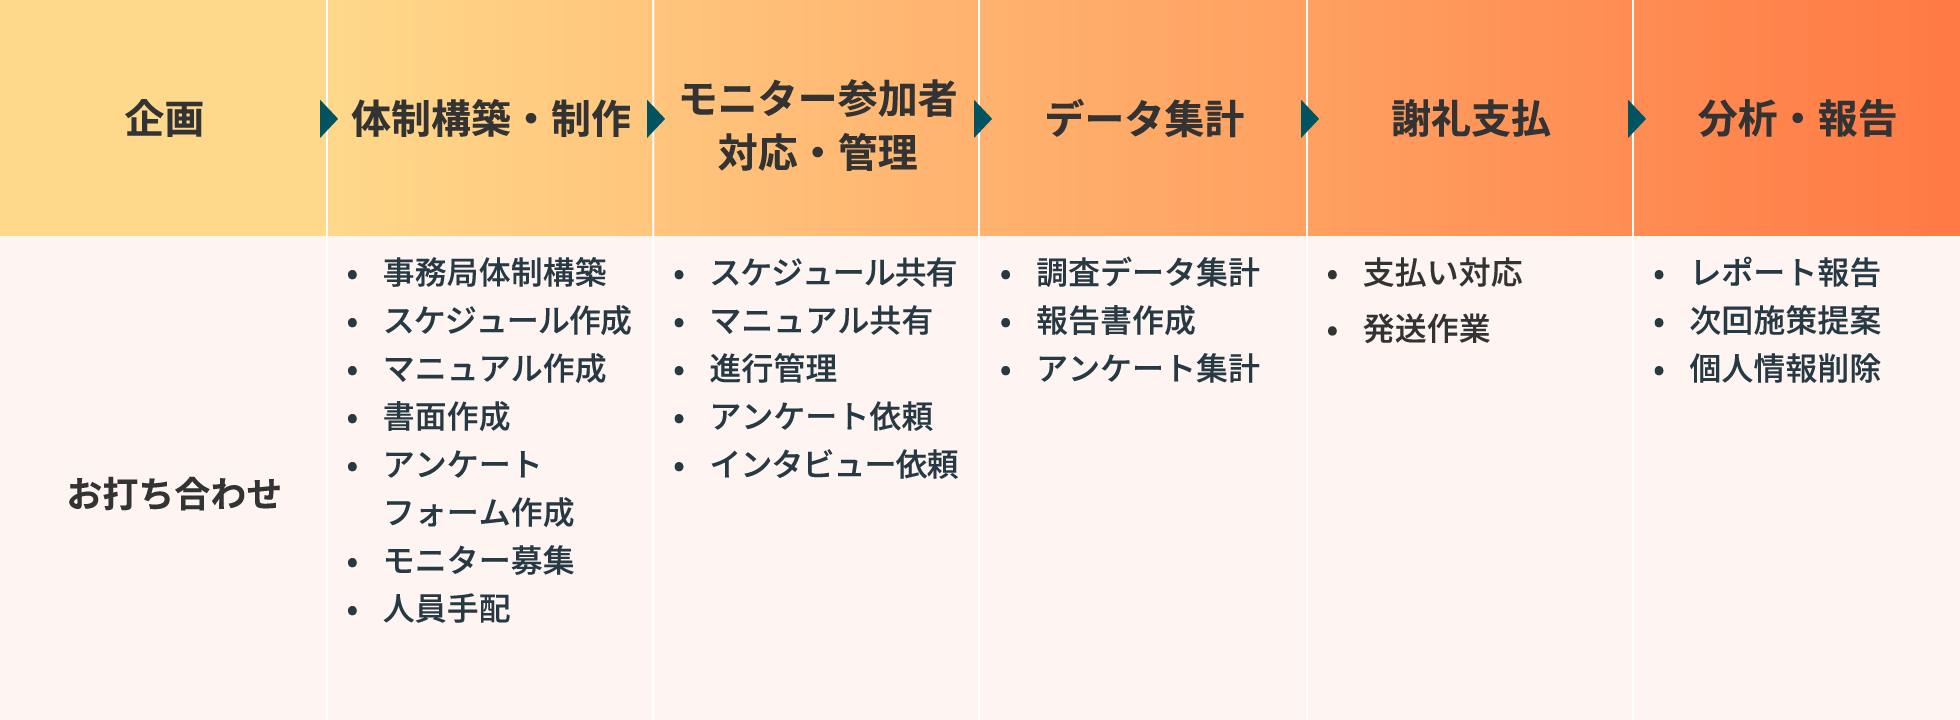
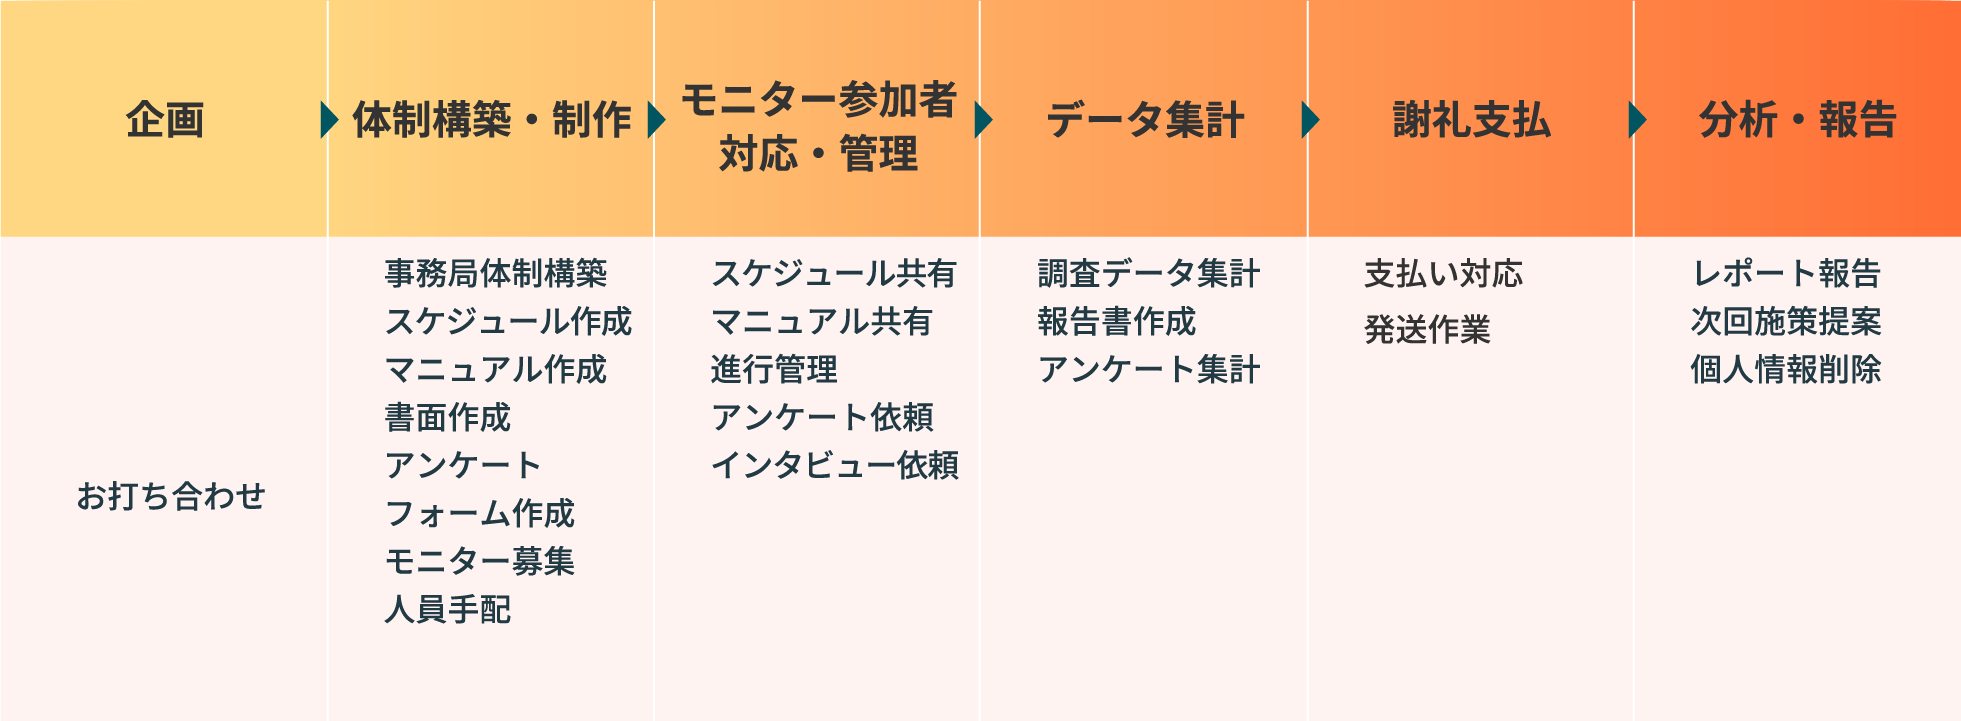
fix/images

diff --git a/index.html b/index.html
@@ -244,7 +244,7 @@
                   />
                   <img
                     class="sp"
-                    src="./img/flow_figure1_sp.jpg"
+                    src="./img/flow_figure1_sp.png"
                     alt="流れ1 企画の段階では、エフエーエス（以下弊社とする）とクライアント様にてお打ち合わせを行います。流れ2 体制構築・制作の段階では、弊社が事務局体制構築、販促物作成、Webサイト作成、アンケートフォーム作成、SNSアカウント設計、商品手配、マニュアル作成などを行います。流れ3 管理・運用の段階では、弊社がSNS運用代行、Webサイト更新、Web広告管理、SNS広告管理、アンケートフォーム管理、問い合わせ対応を行います。流れ4 データ集計の段階では、弊社が応募者データ集計、送付先リスト作成、アンケート集計、レポート作成、見込み客リスト作成などを行います。流れ5 抽選・発送の段階では、弊社が当選案内、梱包作業、発送作業などを行います。流れ6 分析・報告の段階では、弊社がクライアント様に対してレポート報告、次回施策提案、個人情報削除などを行います。"
                   />
                 </div>
@@ -308,7 +308,7 @@
                   />
                   <img
                     class="sp"
-                    src="./img/flow_figure2_sp.jpg"
+                    src="./img/flow_figure2_sp.png"
                     alt="流れ1 企画の段階では、エフエーエス（以下弊社とする）とクライアント様にてお打ち合わせを行います。流れ2 体制構築・制作の段階では、弊社が事務局体制構築、スケジュール作成、マニュアル作成、書面作成、アンケートフォーム作成、モニター募集、人員手配などを行います。流れ3 モニター参加者対応・管理の段階では、弊社が参加者様に対してスケジュール共有、マニュアル共有、進行管理、アンケート依頼、インタビュー依頼などを行います。流れ4 データ集計の段階では、弊社が応募者データ集計、報告書作成、アンケート集計などを行います。流れ5 謝礼支払いの段階では、弊社が参加者様に対して謝礼の支払い対応、発送作業などを行います。流れ6 分析・報告の段階では、弊社がクライアント様に対してレポート報告、次回施策提案、個人情報削除などを行います。
                     "
                   />
